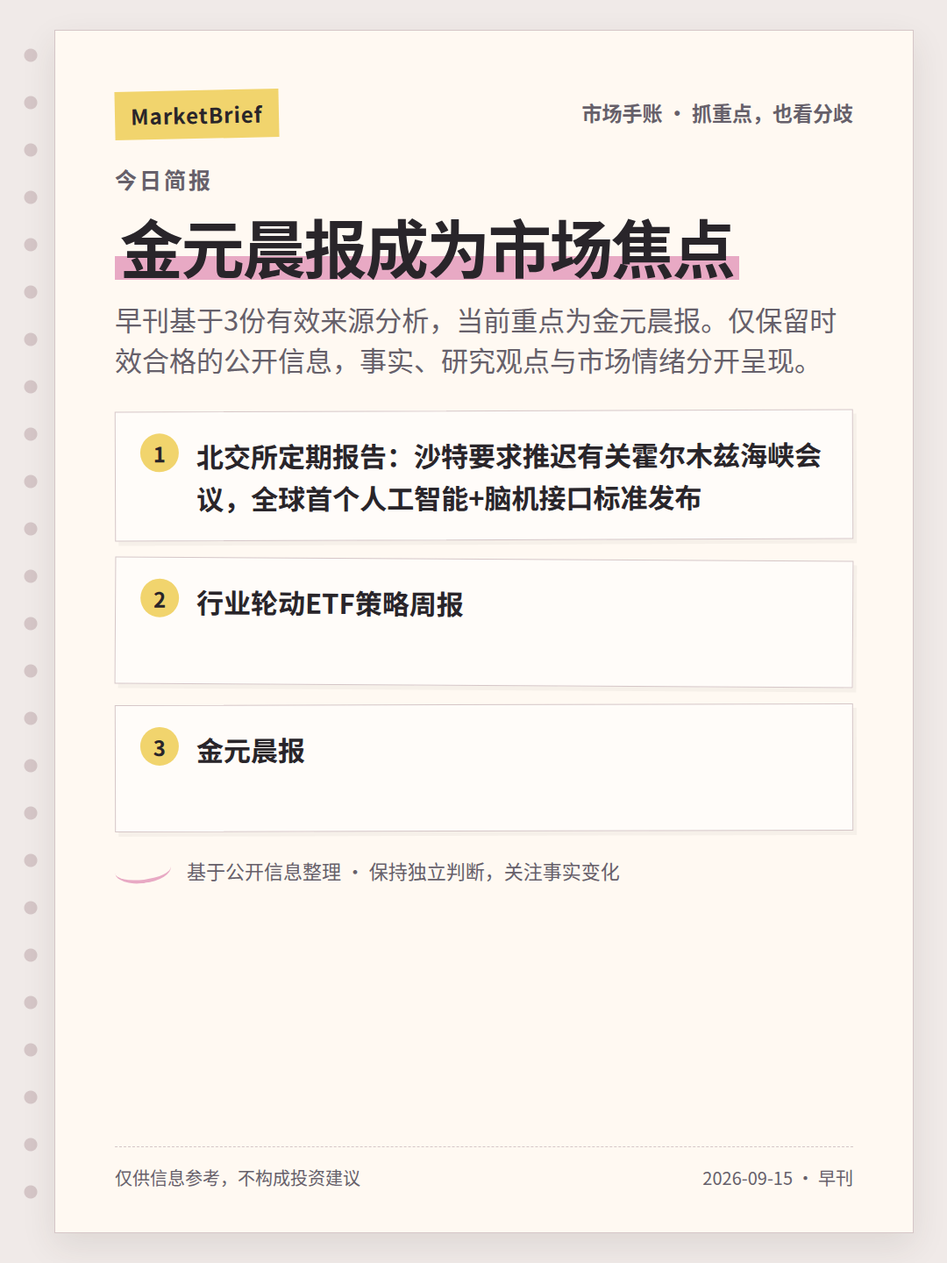
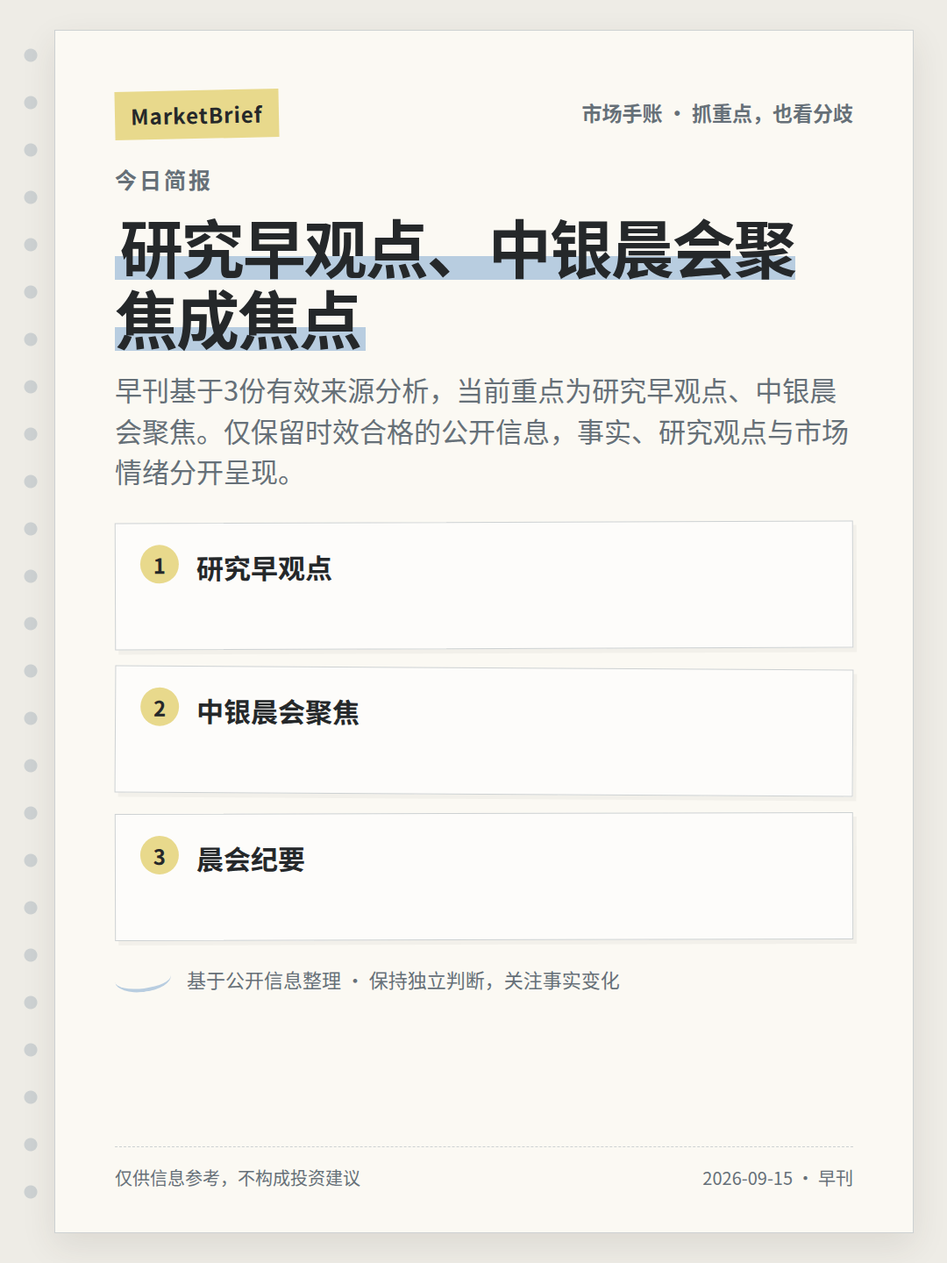
MarketBrief: publish official-source notebook edition

diff --git a/output/marketbrief/2026-09-15/am/2026-09-15-am-06.html b/output/marketbrief/2026-09-15/am/2026-09-15-am-06.html
@@ -1,32 +1,32 @@
 <!doctype html>
 <html lang="zh-CN"><head><meta charset="utf-8"><style>
-*{box-sizing:border-box}html,body{margin:0;width:1080px;height:1440px;background:#F0EAE8;color:#29252A;font-family:'Noto Sans CJK SC','Microsoft YaHei',sans-serif}
-body:before{content:'';position:absolute;left:24px;top:36px;bottom:36px;width:22px;background:radial-gradient(circle,#D5C6C7 0 7px,transparent 8px) center top/22px 54px repeat-y}
-main{position:relative;margin:34px 38px 34px 62px;width:980px;height:1372px;padding:68px 68px 52px;background:#FFF9F2;border:1px solid #D5C6C7;box-shadow:0 14px 36px rgba(58,47,39,.10);overflow:hidden}
+*{box-sizing:border-box}html,body{margin:0;width:1080px;height:1440px;background:#EEECE6;color:#25282A;font-family:'Noto Sans CJK SC','Microsoft YaHei',sans-serif}
+body:before{content:'';position:absolute;left:24px;top:36px;bottom:36px;width:22px;background:radial-gradient(circle,#CDD1D2 0 7px,transparent 8px) center top/22px 54px repeat-y}
+main{position:relative;margin:34px 38px 34px 62px;width:980px;height:1372px;padding:68px 68px 52px;background:#FBF9F3;border:1px solid #CDD1D2;box-shadow:0 14px 36px rgba(58,47,39,.10);overflow:hidden}
 main:after{content:none}
 .top{position:relative;z-index:1;display:flex;justify-content:space-between;align-items:flex-start;margin-bottom:28px}
-.tape{display:inline-block;padding:10px 18px;background:#F1D46D;transform:rotate(-1.2deg);font-size:24px;font-weight:800;letter-spacing:1px}
-.edition{font-size:23px;font-weight:700;color:#66606A;padding-top:8px}
-.kicker{position:relative;z-index:1;font-size:25px;font-weight:800;letter-spacing:3px;color:#66606A;margin-bottom:18px}
+.tape{display:inline-block;padding:10px 18px;background:#E8D98C;transform:rotate(-1.2deg);font-size:24px;font-weight:800;letter-spacing:1px}
+.edition{font-size:23px;font-weight:700;color:#667078;padding-top:8px}
+.kicker{position:relative;z-index:1;font-size:25px;font-weight:800;letter-spacing:3px;color:#667078;margin-bottom:18px}
 h1{position:relative;z-index:1;font-size:72px;line-height:1.12;margin:0 0 20px;font-weight:900;letter-spacing:-2px}
-h1 span{background:linear-gradient(transparent 62%,#E8A9C4 62% 88%,transparent 88%);padding:0 .08em}
-.sub{position:relative;z-index:1;font-size:31px;line-height:1.5;color:#66606A;margin-bottom:34px;max-width:850px}
-.ribbon{position:relative;z-index:1;display:inline-block;padding:8px 16px;margin-bottom:30px;background:#AFCDE5;font-size:22px;font-weight:700;transform:rotate(.6deg)}
+h1 span{background:linear-gradient(transparent 62%,#B8CDE0 62% 88%,transparent 88%);padding:0 .08em}
+.sub{position:relative;z-index:1;font-size:31px;line-height:1.5;color:#667078;margin-bottom:34px;max-width:850px}
+.ribbon{position:relative;z-index:1;display:inline-block;padding:8px 16px;margin-bottom:30px;background:#D7CDE6;font-size:22px;font-weight:700;transform:rotate(.6deg)}
 .notes{position:relative;z-index:1;display:grid;gap:21px}
-.note{position:relative;min-height:145px;padding:26px 30px 24px 92px;background:rgba(255,255,255,.56);border:1px solid #D5C6C7;box-shadow:4px 5px 0 rgba(0,0,0,.035);transform:rotate(-.2deg)}
+.note{position:relative;min-height:145px;padding:26px 30px 24px 92px;background:rgba(255,255,255,.56);border:1px solid #CDD1D2;box-shadow:4px 5px 0 rgba(0,0,0,.035);transform:rotate(-.2deg)}
 .note:nth-child(2){transform:rotate(.35deg)}.note:nth-child(3){transform:rotate(-.15deg)}
-.note b{position:absolute;left:28px;top:24px;width:44px;height:44px;border-radius:50%;display:grid;place-items:center;background:#F1D46D;font-size:24px}
+.note b{position:absolute;left:28px;top:24px;width:44px;height:44px;border-radius:50%;display:grid;place-items:center;background:#E8D98C;font-size:24px}
 .note p{margin:0;font-size:31px;line-height:1.55;font-weight:650}
-.margin{position:relative;z-index:1;margin-top:28px;display:flex;gap:18px;align-items:center;color:#66606A;font-size:22px}
-.sketch{width:64px;height:30px;border-bottom:4px solid #E8A9C4;border-radius:50%;transform:rotate(-7deg)}
-footer{position:absolute;z-index:1;left:68px;right:68px;bottom:48px;border-top:1px dashed #D5C6C7;padding-top:20px;display:flex;justify-content:space-between;gap:20px;color:#66606A;font-size:20px}
+.margin{position:relative;z-index:1;margin-top:28px;display:flex;gap:18px;align-items:center;color:#667078;font-size:22px}
+.sketch{width:64px;height:30px;border-bottom:4px solid #B8CDE0;border-radius:50%;transform:rotate(-7deg)}
+footer{position:absolute;z-index:1;left:68px;right:68px;bottom:48px;border-top:1px dashed #CDD1D2;padding-top:20px;display:flex;justify-content:space-between;gap:20px;color:#667078;font-size:20px}
 </style></head>
 <body><main>
 <div class="top"><span class="tape">MarketBrief</span><span class="edition">市场手账 · 抓重点，也看分歧</span></div>
 <div class="kicker">风险提示</div>
 <h1><span>后续变量仍需确认</span></h1>
 <div class="sub">只保留来源自身限制和当前证据中的风险项，不额外推演。</div>
-<div class="notes"><section class="note"><b>1</b><p>页面为导航索引页，仅列出发布标题与日期，未包含任何具体数据数值或分析内容</p></section><section class="note"><b>2</b><p>部分社区信息存在时效性不足，过期内容已从当前证据中剔除。</p></section><section class="note"><b>3</b><p>如需具体CPI/PPI数值及同比环比数据，需访问各发布原文页面</p></section></div>
+<div class="notes"><section class="note"><b>1</b><p>该页面为BLS新闻室导航索引页，仅列出发布标题与日期，不包含任何具体经济数据或分析内容，无法提取实质性经济指标数值</p></section><section class="note"><b>2</b><p>部分社区信息存在时效性不足，过期内容已从当前证据中剔除。</p></section><section class="note"><b>3</b><p>8月金融数据点评：关注货币政策直达融资需求</p></section></div>
 <div class="margin"><span class="sketch"></span><span>基于公开信息整理 · 保持独立判断，关注事实变化</span></div>
 <footer><span>仅供信息参考，不构成投资建议</span><span>2026-09-15 · 早刊</span></footer>
 </main></body></html>

diff --git a/output/marketbrief/2026-09-15/am/2026-09-15-am-01.html b/output/marketbrief/2026-09-15/am/2026-09-15-am-01.html
@@ -1,32 +1,32 @@
 <!doctype html>
 <html lang="zh-CN"><head><meta charset="utf-8"><style>
-*{box-sizing:border-box}html,body{margin:0;width:1080px;height:1440px;background:#F0EAE8;color:#29252A;font-family:'Noto Sans CJK SC','Microsoft YaHei',sans-serif}
-body:before{content:'';position:absolute;left:24px;top:36px;bottom:36px;width:22px;background:radial-gradient(circle,#D5C6C7 0 7px,transparent 8px) center top/22px 54px repeat-y}
-main{position:relative;margin:34px 38px 34px 62px;width:980px;height:1372px;padding:68px 68px 52px;background:#FFF9F2;border:1px solid #D5C6C7;box-shadow:0 14px 36px rgba(58,47,39,.10);overflow:hidden}
+*{box-sizing:border-box}html,body{margin:0;width:1080px;height:1440px;background:#EEECE6;color:#25282A;font-family:'Noto Sans CJK SC','Microsoft YaHei',sans-serif}
+body:before{content:'';position:absolute;left:24px;top:36px;bottom:36px;width:22px;background:radial-gradient(circle,#CDD1D2 0 7px,transparent 8px) center top/22px 54px repeat-y}
+main{position:relative;margin:34px 38px 34px 62px;width:980px;height:1372px;padding:68px 68px 52px;background:#FBF9F3;border:1px solid #CDD1D2;box-shadow:0 14px 36px rgba(58,47,39,.10);overflow:hidden}
 main:after{content:none}
 .top{position:relative;z-index:1;display:flex;justify-content:space-between;align-items:flex-start;margin-bottom:28px}
-.tape{display:inline-block;padding:10px 18px;background:#F1D46D;transform:rotate(-1.2deg);font-size:24px;font-weight:800;letter-spacing:1px}
-.edition{font-size:23px;font-weight:700;color:#66606A;padding-top:8px}
-.kicker{position:relative;z-index:1;font-size:25px;font-weight:800;letter-spacing:3px;color:#66606A;margin-bottom:18px}
+.tape{display:inline-block;padding:10px 18px;background:#E8D98C;transform:rotate(-1.2deg);font-size:24px;font-weight:800;letter-spacing:1px}
+.edition{font-size:23px;font-weight:700;color:#667078;padding-top:8px}
+.kicker{position:relative;z-index:1;font-size:25px;font-weight:800;letter-spacing:3px;color:#667078;margin-bottom:18px}
 h1{position:relative;z-index:1;font-size:72px;line-height:1.12;margin:0 0 20px;font-weight:900;letter-spacing:-2px}
-h1 span{background:linear-gradient(transparent 62%,#E8A9C4 62% 88%,transparent 88%);padding:0 .08em}
-.sub{position:relative;z-index:1;font-size:31px;line-height:1.5;color:#66606A;margin-bottom:34px;max-width:850px}
-.ribbon{position:relative;z-index:1;display:inline-block;padding:8px 16px;margin-bottom:30px;background:#AFCDE5;font-size:22px;font-weight:700;transform:rotate(.6deg)}
+h1 span{background:linear-gradient(transparent 62%,#B8CDE0 62% 88%,transparent 88%);padding:0 .08em}
+.sub{position:relative;z-index:1;font-size:31px;line-height:1.5;color:#667078;margin-bottom:34px;max-width:850px}
+.ribbon{position:relative;z-index:1;display:inline-block;padding:8px 16px;margin-bottom:30px;background:#D7CDE6;font-size:22px;font-weight:700;transform:rotate(.6deg)}
 .notes{position:relative;z-index:1;display:grid;gap:21px}
-.note{position:relative;min-height:145px;padding:26px 30px 24px 92px;background:rgba(255,255,255,.56);border:1px solid #D5C6C7;box-shadow:4px 5px 0 rgba(0,0,0,.035);transform:rotate(-.2deg)}
+.note{position:relative;min-height:145px;padding:26px 30px 24px 92px;background:rgba(255,255,255,.56);border:1px solid #CDD1D2;box-shadow:4px 5px 0 rgba(0,0,0,.035);transform:rotate(-.2deg)}
 .note:nth-child(2){transform:rotate(.35deg)}.note:nth-child(3){transform:rotate(-.15deg)}
-.note b{position:absolute;left:28px;top:24px;width:44px;height:44px;border-radius:50%;display:grid;place-items:center;background:#F1D46D;font-size:24px}
+.note b{position:absolute;left:28px;top:24px;width:44px;height:44px;border-radius:50%;display:grid;place-items:center;background:#E8D98C;font-size:24px}
 .note p{margin:0;font-size:31px;line-height:1.55;font-weight:650}
-.margin{position:relative;z-index:1;margin-top:28px;display:flex;gap:18px;align-items:center;color:#66606A;font-size:22px}
-.sketch{width:64px;height:30px;border-bottom:4px solid #E8A9C4;border-radius:50%;transform:rotate(-7deg)}
-footer{position:absolute;z-index:1;left:68px;right:68px;bottom:48px;border-top:1px dashed #D5C6C7;padding-top:20px;display:flex;justify-content:space-between;gap:20px;color:#66606A;font-size:20px}
+.margin{position:relative;z-index:1;margin-top:28px;display:flex;gap:18px;align-items:center;color:#667078;font-size:22px}
+.sketch{width:64px;height:30px;border-bottom:4px solid #B8CDE0;border-radius:50%;transform:rotate(-7deg)}
+footer{position:absolute;z-index:1;left:68px;right:68px;bottom:48px;border-top:1px dashed #CDD1D2;padding-top:20px;display:flex;justify-content:space-between;gap:20px;color:#667078;font-size:20px}
 </style></head>
 <body><main>
 <div class="top"><span class="tape">MarketBrief</span><span class="edition">市场手账 · 抓重点，也看分歧</span></div>
 <div class="kicker">今日简报</div>
-<h1><span>金元晨报成为市场焦点</span></h1>
-<div class="sub">早刊基于3份有效来源分析，当前重点为金元晨报。仅保留时效合格的公开信息，事实、研究观点与市场情绪分开呈现。</div>
-<div class="notes"><section class="note"><b>1</b><p>北交所定期报告：沙特要求推迟有关霍尔木兹海峡会议，全球首个人工智能+脑机接口标准发布</p></section><section class="note"><b>2</b><p>行业轮动ETF策略周报</p></section><section class="note"><b>3</b><p>金元晨报</p></section></div>
+<h1><span>研究早观点、中银晨会聚焦成焦点</span></h1>
+<div class="sub">早刊基于3份有效来源分析，当前重点为研究早观点、中银晨会聚焦。仅保留时效合格的公开信息，事实、研究观点与市场情绪分开呈现。</div>
+<div class="notes"><section class="note"><b>1</b><p>研究早观点</p></section><section class="note"><b>2</b><p>中银晨会聚焦</p></section><section class="note"><b>3</b><p>晨会纪要</p></section></div>
 <div class="margin"><span class="sketch"></span><span>基于公开信息整理 · 保持独立判断，关注事实变化</span></div>
 <footer><span>仅供信息参考，不构成投资建议</span><span>2026-09-15 · 早刊</span></footer>
 </main></body></html>

diff --git a/output/marketbrief/2026-09-15/am/2026-09-15-am-02.html b/output/marketbrief/2026-09-15/am/2026-09-15-am-02.html
@@ -1,32 +1,32 @@
 <!doctype html>
 <html lang="zh-CN"><head><meta charset="utf-8"><style>
-*{box-sizing:border-box}html,body{margin:0;width:1080px;height:1440px;background:#F0EAE8;color:#29252A;font-family:'Noto Sans CJK SC','Microsoft YaHei',sans-serif}
-body:before{content:'';position:absolute;left:24px;top:36px;bottom:36px;width:22px;background:radial-gradient(circle,#D5C6C7 0 7px,transparent 8px) center top/22px 54px repeat-y}
-main{position:relative;margin:34px 38px 34px 62px;width:980px;height:1372px;padding:68px 68px 52px;background:#FFF9F2;border:1px solid #D5C6C7;box-shadow:0 14px 36px rgba(58,47,39,.10);overflow:hidden}
+*{box-sizing:border-box}html,body{margin:0;width:1080px;height:1440px;background:#EEECE6;color:#25282A;font-family:'Noto Sans CJK SC','Microsoft YaHei',sans-serif}
+body:before{content:'';position:absolute;left:24px;top:36px;bottom:36px;width:22px;background:radial-gradient(circle,#CDD1D2 0 7px,transparent 8px) center top/22px 54px repeat-y}
+main{position:relative;margin:34px 38px 34px 62px;width:980px;height:1372px;padding:68px 68px 52px;background:#FBF9F3;border:1px solid #CDD1D2;box-shadow:0 14px 36px rgba(58,47,39,.10);overflow:hidden}
 main:after{content:none}
 .top{position:relative;z-index:1;display:flex;justify-content:space-between;align-items:flex-start;margin-bottom:28px}
-.tape{display:inline-block;padding:10px 18px;background:#F1D46D;transform:rotate(-1.2deg);font-size:24px;font-weight:800;letter-spacing:1px}
-.edition{font-size:23px;font-weight:700;color:#66606A;padding-top:8px}
-.kicker{position:relative;z-index:1;font-size:25px;font-weight:800;letter-spacing:3px;color:#66606A;margin-bottom:18px}
+.tape{display:inline-block;padding:10px 18px;background:#E8D98C;transform:rotate(-1.2deg);font-size:24px;font-weight:800;letter-spacing:1px}
+.edition{font-size:23px;font-weight:700;color:#667078;padding-top:8px}
+.kicker{position:relative;z-index:1;font-size:25px;font-weight:800;letter-spacing:3px;color:#667078;margin-bottom:18px}
 h1{position:relative;z-index:1;font-size:72px;line-height:1.12;margin:0 0 20px;font-weight:900;letter-spacing:-2px}
-h1 span{background:linear-gradient(transparent 62%,#E8A9C4 62% 88%,transparent 88%);padding:0 .08em}
-.sub{position:relative;z-index:1;font-size:31px;line-height:1.5;color:#66606A;margin-bottom:34px;max-width:850px}
-.ribbon{position:relative;z-index:1;display:inline-block;padding:8px 16px;margin-bottom:30px;background:#AFCDE5;font-size:22px;font-weight:700;transform:rotate(.6deg)}
+h1 span{background:linear-gradient(transparent 62%,#B8CDE0 62% 88%,transparent 88%);padding:0 .08em}
+.sub{position:relative;z-index:1;font-size:31px;line-height:1.5;color:#667078;margin-bottom:34px;max-width:850px}
+.ribbon{position:relative;z-index:1;display:inline-block;padding:8px 16px;margin-bottom:30px;background:#D7CDE6;font-size:22px;font-weight:700;transform:rotate(.6deg)}
 .notes{position:relative;z-index:1;display:grid;gap:21px}
-.note{position:relative;min-height:145px;padding:26px 30px 24px 92px;background:rgba(255,255,255,.56);border:1px solid #D5C6C7;box-shadow:4px 5px 0 rgba(0,0,0,.035);transform:rotate(-.2deg)}
+.note{position:relative;min-height:145px;padding:26px 30px 24px 92px;background:rgba(255,255,255,.56);border:1px solid #CDD1D2;box-shadow:4px 5px 0 rgba(0,0,0,.035);transform:rotate(-.2deg)}
 .note:nth-child(2){transform:rotate(.35deg)}.note:nth-child(3){transform:rotate(-.15deg)}
-.note b{position:absolute;left:28px;top:24px;width:44px;height:44px;border-radius:50%;display:grid;place-items:center;background:#F1D46D;font-size:24px}
+.note b{position:absolute;left:28px;top:24px;width:44px;height:44px;border-radius:50%;display:grid;place-items:center;background:#E8D98C;font-size:24px}
 .note p{margin:0;font-size:31px;line-height:1.55;font-weight:650}
-.margin{position:relative;z-index:1;margin-top:28px;display:flex;gap:18px;align-items:center;color:#66606A;font-size:22px}
-.sketch{width:64px;height:30px;border-bottom:4px solid #E8A9C4;border-radius:50%;transform:rotate(-7deg)}
-footer{position:absolute;z-index:1;left:68px;right:68px;bottom:48px;border-top:1px dashed #D5C6C7;padding-top:20px;display:flex;justify-content:space-between;gap:20px;color:#66606A;font-size:20px}
+.margin{position:relative;z-index:1;margin-top:28px;display:flex;gap:18px;align-items:center;color:#667078;font-size:22px}
+.sketch{width:64px;height:30px;border-bottom:4px solid #B8CDE0;border-radius:50%;transform:rotate(-7deg)}
+footer{position:absolute;z-index:1;left:68px;right:68px;bottom:48px;border-top:1px dashed #CDD1D2;padding-top:20px;display:flex;justify-content:space-between;gap:20px;color:#667078;font-size:20px}
 </style></head>
 <body><main>
 <div class="top"><span class="tape">MarketBrief</span><span class="edition">市场手账 · 抓重点，也看分歧</span></div>
 <div class="kicker">全球市场</div>
 <h1><span>隔夜外部变量</span></h1>
 <div class="sub">只保留当前时效窗口内、已有公开信息支持的海外市场与宏观线索。</div>
-<div class="notes"><section class="note"><b>1</b><p>CPI消费者价格指数发布：2026-09-11发布，具体数值未在本页面展示</p></section><section class="note"><b>2</b><p>PPI生产者价格指数发布：2026-09-10发布，具体数值未在本页面展示</p></section><section class="note"><b>3</b><p>实际收入数据发布：2026-09-11发布，具体数值未在本页面展示</p></section></div>
+<div class="notes"><section class="note"><b>1</b><p>消费者价格指数(CPI)发布：2026-09-11发布，页面仅列标题与日期，无具体数值</p></section><section class="note"><b>2</b><p>生产者价格指数(PPI)发布：2026-09-10发布，页面仅列标题与日期，无具体数值</p></section><section class="note"><b>3</b><p>实际收入(Real Earnings)发布：2026-09-11发布，页面仅列标题与日期，无具体数值</p></section></div>
 <div class="margin"><span class="sketch"></span><span>基于公开信息整理 · 保持独立判断，关注事实变化</span></div>
 <footer><span>仅供信息参考，不构成投资建议</span><span>2026-09-15 · 早刊</span></footer>
 </main></body></html>

diff --git a/output/marketbrief/2026-09-15/am/2026-09-15-am-05.html b/output/marketbrief/2026-09-15/am/2026-09-15-am-05.html
@@ -1,32 +1,32 @@
 <!doctype html>
 <html lang="zh-CN"><head><meta charset="utf-8"><style>
-*{box-sizing:border-box}html,body{margin:0;width:1080px;height:1440px;background:#F0EAE8;color:#29252A;font-family:'Noto Sans CJK SC','Microsoft YaHei',sans-serif}
-body:before{content:'';position:absolute;left:24px;top:36px;bottom:36px;width:22px;background:radial-gradient(circle,#D5C6C7 0 7px,transparent 8px) center top/22px 54px repeat-y}
-main{position:relative;margin:34px 38px 34px 62px;width:980px;height:1372px;padding:68px 68px 52px;background:#FFF9F2;border:1px solid #D5C6C7;box-shadow:0 14px 36px rgba(58,47,39,.10);overflow:hidden}
+*{box-sizing:border-box}html,body{margin:0;width:1080px;height:1440px;background:#EEECE6;color:#25282A;font-family:'Noto Sans CJK SC','Microsoft YaHei',sans-serif}
+body:before{content:'';position:absolute;left:24px;top:36px;bottom:36px;width:22px;background:radial-gradient(circle,#CDD1D2 0 7px,transparent 8px) center top/22px 54px repeat-y}
+main{position:relative;margin:34px 38px 34px 62px;width:980px;height:1372px;padding:68px 68px 52px;background:#FBF9F3;border:1px solid #CDD1D2;box-shadow:0 14px 36px rgba(58,47,39,.10);overflow:hidden}
 main:after{content:none}
 .top{position:relative;z-index:1;display:flex;justify-content:space-between;align-items:flex-start;margin-bottom:28px}
-.tape{display:inline-block;padding:10px 18px;background:#F1D46D;transform:rotate(-1.2deg);font-size:24px;font-weight:800;letter-spacing:1px}
-.edition{font-size:23px;font-weight:700;color:#66606A;padding-top:8px}
-.kicker{position:relative;z-index:1;font-size:25px;font-weight:800;letter-spacing:3px;color:#66606A;margin-bottom:18px}
+.tape{display:inline-block;padding:10px 18px;background:#E8D98C;transform:rotate(-1.2deg);font-size:24px;font-weight:800;letter-spacing:1px}
+.edition{font-size:23px;font-weight:700;color:#667078;padding-top:8px}
+.kicker{position:relative;z-index:1;font-size:25px;font-weight:800;letter-spacing:3px;color:#667078;margin-bottom:18px}
 h1{position:relative;z-index:1;font-size:72px;line-height:1.12;margin:0 0 20px;font-weight:900;letter-spacing:-2px}
-h1 span{background:linear-gradient(transparent 62%,#E8A9C4 62% 88%,transparent 88%);padding:0 .08em}
-.sub{position:relative;z-index:1;font-size:31px;line-height:1.5;color:#66606A;margin-bottom:34px;max-width:850px}
-.ribbon{position:relative;z-index:1;display:inline-block;padding:8px 16px;margin-bottom:30px;background:#AFCDE5;font-size:22px;font-weight:700;transform:rotate(.6deg)}
+h1 span{background:linear-gradient(transparent 62%,#B8CDE0 62% 88%,transparent 88%);padding:0 .08em}
+.sub{position:relative;z-index:1;font-size:31px;line-height:1.5;color:#667078;margin-bottom:34px;max-width:850px}
+.ribbon{position:relative;z-index:1;display:inline-block;padding:8px 16px;margin-bottom:30px;background:#D7CDE6;font-size:22px;font-weight:700;transform:rotate(.6deg)}
 .notes{position:relative;z-index:1;display:grid;gap:21px}
-.note{position:relative;min-height:145px;padding:26px 30px 24px 92px;background:rgba(255,255,255,.56);border:1px solid #D5C6C7;box-shadow:4px 5px 0 rgba(0,0,0,.035);transform:rotate(-.2deg)}
+.note{position:relative;min-height:145px;padding:26px 30px 24px 92px;background:rgba(255,255,255,.56);border:1px solid #CDD1D2;box-shadow:4px 5px 0 rgba(0,0,0,.035);transform:rotate(-.2deg)}
 .note:nth-child(2){transform:rotate(.35deg)}.note:nth-child(3){transform:rotate(-.15deg)}
-.note b{position:absolute;left:28px;top:24px;width:44px;height:44px;border-radius:50%;display:grid;place-items:center;background:#F1D46D;font-size:24px}
+.note b{position:absolute;left:28px;top:24px;width:44px;height:44px;border-radius:50%;display:grid;place-items:center;background:#E8D98C;font-size:24px}
 .note p{margin:0;font-size:31px;line-height:1.55;font-weight:650}
-.margin{position:relative;z-index:1;margin-top:28px;display:flex;gap:18px;align-items:center;color:#66606A;font-size:22px}
-.sketch{width:64px;height:30px;border-bottom:4px solid #E8A9C4;border-radius:50%;transform:rotate(-7deg)}
-footer{position:absolute;z-index:1;left:68px;right:68px;bottom:48px;border-top:1px dashed #D5C6C7;padding-top:20px;display:flex;justify-content:space-between;gap:20px;color:#66606A;font-size:20px}
+.margin{position:relative;z-index:1;margin-top:28px;display:flex;gap:18px;align-items:center;color:#667078;font-size:22px}
+.sketch{width:64px;height:30px;border-bottom:4px solid #B8CDE0;border-radius:50%;transform:rotate(-7deg)}
+footer{position:absolute;z-index:1;left:68px;right:68px;bottom:48px;border-top:1px dashed #CDD1D2;padding-top:20px;display:flex;justify-content:space-between;gap:20px;color:#667078;font-size:20px}
 </style></head>
 <body><main>
 <div class="top"><span class="tape">MarketBrief</span><span class="edition">市场手账 · 抓重点，也看分歧</span></div>
 <div class="kicker">事实分歧</div>
 <h1><span>事实、观点与情绪分开看</span></h1>
 <div class="sub">先看已确认事实，再看研究判断和市场情绪是否一致。</div>
-<div class="notes"><section class="note"><b>1</b><p>CPI消费者价格指数发布：2026-09-11发布，具体数值未在本页面展示</p></section><section class="note"><b>2</b><p>北交所定期报告：沙特要求推迟有关霍尔木兹海峡会议，全球首个人工智能+脑机接口标准发布</p></section><section class="note"><b>3</b><p>继续观察公开信息变化，避免仅凭单一信号下结论。</p></section></div>
+<div class="notes"><section class="note"><b>1</b><p>消费者价格指数(CPI)发布：2026-09-11发布，页面仅列标题与日期，无具体数值</p></section><section class="note"><b>2</b><p>研究早观点</p></section><section class="note"><b>3</b><p>继续观察公开信息变化，避免仅凭单一信号下结论。</p></section></div>
 <div class="margin"><span class="sketch"></span><span>基于公开信息整理 · 保持独立判断，关注事实变化</span></div>
 <footer><span>仅供信息参考，不构成投资建议</span><span>2026-09-15 · 早刊</span></footer>
 </main></body></html>

diff --git a/output/marketbrief/2026-09-15/am/2026-09-15-am-04.html b/output/marketbrief/2026-09-15/am/2026-09-15-am-04.html
@@ -1,32 +1,32 @@
 <!doctype html>
 <html lang="zh-CN"><head><meta charset="utf-8"><style>
-*{box-sizing:border-box}html,body{margin:0;width:1080px;height:1440px;background:#F0EAE8;color:#29252A;font-family:'Noto Sans CJK SC','Microsoft YaHei',sans-serif}
-body:before{content:'';position:absolute;left:24px;top:36px;bottom:36px;width:22px;background:radial-gradient(circle,#D5C6C7 0 7px,transparent 8px) center top/22px 54px repeat-y}
-main{position:relative;margin:34px 38px 34px 62px;width:980px;height:1372px;padding:68px 68px 52px;background:#FFF9F2;border:1px solid #D5C6C7;box-shadow:0 14px 36px rgba(58,47,39,.10);overflow:hidden}
+*{box-sizing:border-box}html,body{margin:0;width:1080px;height:1440px;background:#EEECE6;color:#25282A;font-family:'Noto Sans CJK SC','Microsoft YaHei',sans-serif}
+body:before{content:'';position:absolute;left:24px;top:36px;bottom:36px;width:22px;background:radial-gradient(circle,#CDD1D2 0 7px,transparent 8px) center top/22px 54px repeat-y}
+main{position:relative;margin:34px 38px 34px 62px;width:980px;height:1372px;padding:68px 68px 52px;background:#FBF9F3;border:1px solid #CDD1D2;box-shadow:0 14px 36px rgba(58,47,39,.10);overflow:hidden}
 main:after{content:none}
 .top{position:relative;z-index:1;display:flex;justify-content:space-between;align-items:flex-start;margin-bottom:28px}
-.tape{display:inline-block;padding:10px 18px;background:#F1D46D;transform:rotate(-1.2deg);font-size:24px;font-weight:800;letter-spacing:1px}
-.edition{font-size:23px;font-weight:700;color:#66606A;padding-top:8px}
-.kicker{position:relative;z-index:1;font-size:25px;font-weight:800;letter-spacing:3px;color:#66606A;margin-bottom:18px}
+.tape{display:inline-block;padding:10px 18px;background:#E8D98C;transform:rotate(-1.2deg);font-size:24px;font-weight:800;letter-spacing:1px}
+.edition{font-size:23px;font-weight:700;color:#667078;padding-top:8px}
+.kicker{position:relative;z-index:1;font-size:25px;font-weight:800;letter-spacing:3px;color:#667078;margin-bottom:18px}
 h1{position:relative;z-index:1;font-size:72px;line-height:1.12;margin:0 0 20px;font-weight:900;letter-spacing:-2px}
-h1 span{background:linear-gradient(transparent 62%,#E8A9C4 62% 88%,transparent 88%);padding:0 .08em}
-.sub{position:relative;z-index:1;font-size:31px;line-height:1.5;color:#66606A;margin-bottom:34px;max-width:850px}
-.ribbon{position:relative;z-index:1;display:inline-block;padding:8px 16px;margin-bottom:30px;background:#AFCDE5;font-size:22px;font-weight:700;transform:rotate(.6deg)}
+h1 span{background:linear-gradient(transparent 62%,#B8CDE0 62% 88%,transparent 88%);padding:0 .08em}
+.sub{position:relative;z-index:1;font-size:31px;line-height:1.5;color:#667078;margin-bottom:34px;max-width:850px}
+.ribbon{position:relative;z-index:1;display:inline-block;padding:8px 16px;margin-bottom:30px;background:#D7CDE6;font-size:22px;font-weight:700;transform:rotate(.6deg)}
 .notes{position:relative;z-index:1;display:grid;gap:21px}
-.note{position:relative;min-height:145px;padding:26px 30px 24px 92px;background:rgba(255,255,255,.56);border:1px solid #D5C6C7;box-shadow:4px 5px 0 rgba(0,0,0,.035);transform:rotate(-.2deg)}
+.note{position:relative;min-height:145px;padding:26px 30px 24px 92px;background:rgba(255,255,255,.56);border:1px solid #CDD1D2;box-shadow:4px 5px 0 rgba(0,0,0,.035);transform:rotate(-.2deg)}
 .note:nth-child(2){transform:rotate(.35deg)}.note:nth-child(3){transform:rotate(-.15deg)}
-.note b{position:absolute;left:28px;top:24px;width:44px;height:44px;border-radius:50%;display:grid;place-items:center;background:#F1D46D;font-size:24px}
+.note b{position:absolute;left:28px;top:24px;width:44px;height:44px;border-radius:50%;display:grid;place-items:center;background:#E8D98C;font-size:24px}
 .note p{margin:0;font-size:31px;line-height:1.55;font-weight:650}
-.margin{position:relative;z-index:1;margin-top:28px;display:flex;gap:18px;align-items:center;color:#66606A;font-size:22px}
-.sketch{width:64px;height:30px;border-bottom:4px solid #E8A9C4;border-radius:50%;transform:rotate(-7deg)}
-footer{position:absolute;z-index:1;left:68px;right:68px;bottom:48px;border-top:1px dashed #D5C6C7;padding-top:20px;display:flex;justify-content:space-between;gap:20px;color:#66606A;font-size:20px}
+.margin{position:relative;z-index:1;margin-top:28px;display:flex;gap:18px;align-items:center;color:#667078;font-size:22px}
+.sketch{width:64px;height:30px;border-bottom:4px solid #B8CDE0;border-radius:50%;transform:rotate(-7deg)}
+footer{position:absolute;z-index:1;left:68px;right:68px;bottom:48px;border-top:1px dashed #CDD1D2;padding-top:20px;display:flex;justify-content:space-between;gap:20px;color:#667078;font-size:20px}
 </style></head>
 <body><main>
 <div class="top"><span class="tape">MarketBrief</span><span class="edition">市场手账 · 抓重点，也看分歧</span></div>
 <div class="kicker">热点追踪</div>
 <h1><span>主线与事件交叉验证</span></h1>
 <div class="sub">优先采用官方与研究信息，社区热度只作为辅助信号。</div>
-<div class="notes"><section class="note"><b>1</b><p>雇主员工成本指数发布：2026-09-09发布，具体数值未在本页面展示</p></section><section class="note"><b>2</b><p>北交所定期报告：沙特要求推迟有关霍尔木兹海峡会议，全球首个人工智能+脑机接口标准发布</p></section><section class="note"><b>3</b><p>行业轮动ETF策略周报</p></section></div>
+<div class="notes"><section class="note"><b>1</b><p>雇主员工成本(ECEC)发布：2026-09-09发布，页面仅列标题与日期，无具体数值</p></section><section class="note"><b>2</b><p>研究早观点</p></section><section class="note"><b>3</b><p>中银晨会聚焦</p></section></div>
 <div class="margin"><span class="sketch"></span><span>基于公开信息整理 · 保持独立判断，关注事实变化</span></div>
 <footer><span>仅供信息参考，不构成投资建议</span><span>2026-09-15 · 早刊</span></footer>
 </main></body></html>

diff --git a/output/marketbrief/2026-09-15/am/2026-09-15-am-03.html b/output/marketbrief/2026-09-15/am/2026-09-15-am-03.html
@@ -1,25 +1,25 @@
 <!doctype html>
 <html lang="zh-CN"><head><meta charset="utf-8"><style>
-*{box-sizing:border-box}html,body{margin:0;width:1080px;height:1440px;background:#F0EAE8;color:#29252A;font-family:'Noto Sans CJK SC','Microsoft YaHei',sans-serif}
-body:before{content:'';position:absolute;left:24px;top:36px;bottom:36px;width:22px;background:radial-gradient(circle,#D5C6C7 0 7px,transparent 8px) center top/22px 54px repeat-y}
-main{position:relative;margin:34px 38px 34px 62px;width:980px;height:1372px;padding:68px 68px 52px;background:#FFF9F2;border:1px solid #D5C6C7;box-shadow:0 14px 36px rgba(58,47,39,.10);overflow:hidden}
+*{box-sizing:border-box}html,body{margin:0;width:1080px;height:1440px;background:#EEECE6;color:#25282A;font-family:'Noto Sans CJK SC','Microsoft YaHei',sans-serif}
+body:before{content:'';position:absolute;left:24px;top:36px;bottom:36px;width:22px;background:radial-gradient(circle,#CDD1D2 0 7px,transparent 8px) center top/22px 54px repeat-y}
+main{position:relative;margin:34px 38px 34px 62px;width:980px;height:1372px;padding:68px 68px 52px;background:#FBF9F3;border:1px solid #CDD1D2;box-shadow:0 14px 36px rgba(58,47,39,.10);overflow:hidden}
 main:after{content:none}
 .top{position:relative;z-index:1;display:flex;justify-content:space-between;align-items:flex-start;margin-bottom:28px}
-.tape{display:inline-block;padding:10px 18px;background:#F1D46D;transform:rotate(-1.2deg);font-size:24px;font-weight:800;letter-spacing:1px}
-.edition{font-size:23px;font-weight:700;color:#66606A;padding-top:8px}
-.kicker{position:relative;z-index:1;font-size:25px;font-weight:800;letter-spacing:3px;color:#66606A;margin-bottom:18px}
+.tape{display:inline-block;padding:10px 18px;background:#E8D98C;transform:rotate(-1.2deg);font-size:24px;font-weight:800;letter-spacing:1px}
+.edition{font-size:23px;font-weight:700;color:#667078;padding-top:8px}
+.kicker{position:relative;z-index:1;font-size:25px;font-weight:800;letter-spacing:3px;color:#667078;margin-bottom:18px}
 h1{position:relative;z-index:1;font-size:72px;line-height:1.12;margin:0 0 20px;font-weight:900;letter-spacing:-2px}
-h1 span{background:linear-gradient(transparent 62%,#E8A9C4 62% 88%,transparent 88%);padding:0 .08em}
-.sub{position:relative;z-index:1;font-size:31px;line-height:1.5;color:#66606A;margin-bottom:34px;max-width:850px}
-.ribbon{position:relative;z-index:1;display:inline-block;padding:8px 16px;margin-bottom:30px;background:#AFCDE5;font-size:22px;font-weight:700;transform:rotate(.6deg)}
+h1 span{background:linear-gradient(transparent 62%,#B8CDE0 62% 88%,transparent 88%);padding:0 .08em}
+.sub{position:relative;z-index:1;font-size:31px;line-height:1.5;color:#667078;margin-bottom:34px;max-width:850px}
+.ribbon{position:relative;z-index:1;display:inline-block;padding:8px 16px;margin-bottom:30px;background:#D7CDE6;font-size:22px;font-weight:700;transform:rotate(.6deg)}
 .notes{position:relative;z-index:1;display:grid;gap:21px}
-.note{position:relative;min-height:145px;padding:26px 30px 24px 92px;background:rgba(255,255,255,.56);border:1px solid #D5C6C7;box-shadow:4px 5px 0 rgba(0,0,0,.035);transform:rotate(-.2deg)}
+.note{position:relative;min-height:145px;padding:26px 30px 24px 92px;background:rgba(255,255,255,.56);border:1px solid #CDD1D2;box-shadow:4px 5px 0 rgba(0,0,0,.035);transform:rotate(-.2deg)}
 .note:nth-child(2){transform:rotate(.35deg)}.note:nth-child(3){transform:rotate(-.15deg)}
-.note b{position:absolute;left:28px;top:24px;width:44px;height:44px;border-radius:50%;display:grid;place-items:center;background:#F1D46D;font-size:24px}
+.note b{position:absolute;left:28px;top:24px;width:44px;height:44px;border-radius:50%;display:grid;place-items:center;background:#E8D98C;font-size:24px}
 .note p{margin:0;font-size:31px;line-height:1.55;font-weight:650}
-.margin{position:relative;z-index:1;margin-top:28px;display:flex;gap:18px;align-items:center;color:#66606A;font-size:22px}
-.sketch{width:64px;height:30px;border-bottom:4px solid #E8A9C4;border-radius:50%;transform:rotate(-7deg)}
-footer{position:absolute;z-index:1;left:68px;right:68px;bottom:48px;border-top:1px dashed #D5C6C7;padding-top:20px;display:flex;justify-content:space-between;gap:20px;color:#66606A;font-size:20px}
+.margin{position:relative;z-index:1;margin-top:28px;display:flex;gap:18px;align-items:center;color:#667078;font-size:22px}
+.sketch{width:64px;height:30px;border-bottom:4px solid #B8CDE0;border-radius:50%;transform:rotate(-7deg)}
+footer{position:absolute;z-index:1;left:68px;right:68px;bottom:48px;border-top:1px dashed #CDD1D2;padding-top:20px;display:flex;justify-content:space-between;gap:20px;color:#667078;font-size:20px}
 </style></head>
 <body><main>
 <div class="top"><span class="tape">MarketBrief</span><span class="edition">市场手账 · 抓重点，也看分歧</span></div>

diff --git a/output/marketbrief/2026-09-15/am/brief.md b/output/marketbrief/2026-09-15/am/brief.md
@@ -1,14 +1,14 @@
-# 金元晨报成为市场焦点
+# 研究早观点、中银晨会聚焦成焦点
 
-> 早刊基于3份有效来源分析，当前重点为金元晨报。仅保留时效合格的公开信息，事实、研究观点与市场情绪分开呈现。
+> 早刊基于3份有效来源分析，当前重点为研究早观点、中银晨会聚焦。仅保留时效合格的公开信息，事实、研究观点与市场情绪分开呈现。
 
 ## 隔夜外部变量
 
 只保留当前时效窗口内、已有公开信息支持的海外市场与宏观线索。
 
-- CPI消费者价格指数发布：2026-09-11发布，具体数值未在本页面展示
-- PPI生产者价格指数发布：2026-09-10发布，具体数值未在本页面展示
-- 实际收入数据发布：2026-09-11发布，具体数值未在本页面展示
+- 消费者价格指数(CPI)发布：2026-09-11发布，页面仅列标题与日期，无具体数值
+- 生产者价格指数(PPI)发布：2026-09-10发布，页面仅列标题与日期，无具体数值
+- 实际收入(Real Earnings)发布：2026-09-11发布，页面仅列标题与日期，无具体数值
 
 ## A股结构与资金
 
@@ -19,24 +19,24 @@
 
 优先采用官方与研究信息，社区热度只作为辅助信号。
 
-- 雇主员工成本指数发布：2026-09-09发布，具体数值未在本页面展示
-- 北交所定期报告：沙特要求推迟有关霍尔木兹海峡会议，全球首个人工智能+脑机接口标准发布
-- 行业轮动ETF策略周报
+- 雇主员工成本(ECEC)发布：2026-09-09发布，页面仅列标题与日期，无具体数值
+- 研究早观点
+- 中银晨会聚焦
 
 ## 事实、观点与情绪分开看
 
 先看已确认事实，再看研究判断和市场情绪是否一致。
 
-- CPI消费者价格指数发布：2026-09-11发布，具体数值未在本页面展示
-- 北交所定期报告：沙特要求推迟有关霍尔木兹海峡会议，全球首个人工智能+脑机接口标准发布
+- 消费者价格指数(CPI)发布：2026-09-11发布，页面仅列标题与日期，无具体数值
+- 研究早观点
 
 ## 后续变量仍需确认
 
 只保留来源自身限制和当前证据中的风险项，不额外推演。
 
-- 页面为导航索引页，仅列出发布标题与日期，未包含任何具体数据数值或分析内容
+- 该页面为BLS新闻室导航索引页，仅列出发布标题与日期，不包含任何具体经济数据或分析内容，无法提取实质性经济指标数值
 - 部分社区信息存在时效性不足，过期内容已从当前证据中剔除。
-- 如需具体CPI/PPI数值及同比环比数据，需访问各发布原文页面
+- 8月金融数据点评：关注货币政策直达融资需求
 
 ## 信息口径
 
@@ -47,5 +47,5 @@
 本文仅作公开信息整理与讨论，不构成任何投资建议。
 
 刊期：2026-09-15 早刊  
-生成时间：2026-09-15T07:53:42+08:00  
-模型：`SenseNova` · 调用 3 次 · Token 5304
+生成时间：2026-09-15T11:16:17+08:00  
+模型：`SenseNova` · 调用 3 次 · Token 5417
